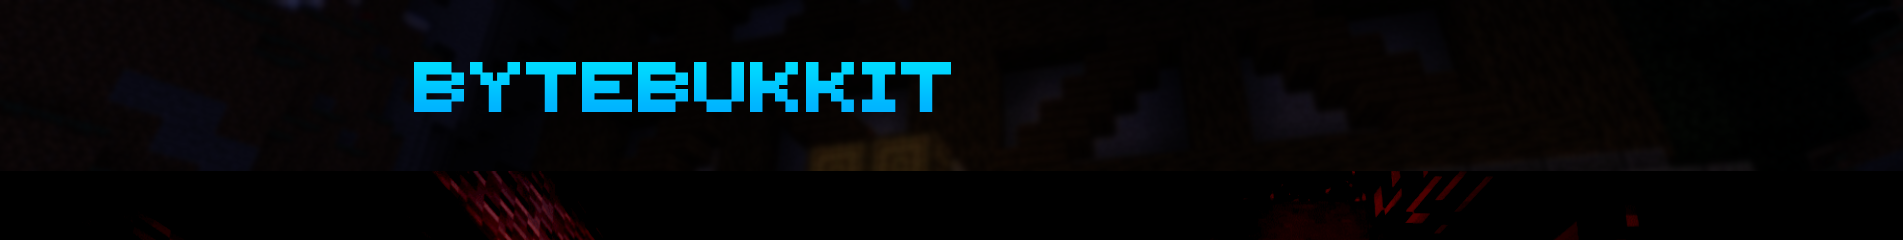
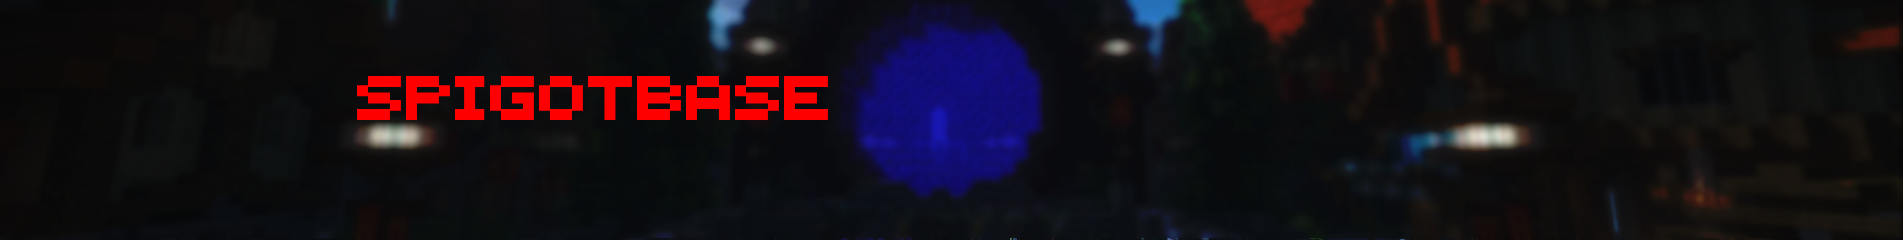
update to spigotbase

diff --git a/create.html b/create.html
@@ -2,8 +2,10 @@
 <html lang="en">
 <head>
   <meta charset="UTF-8">
-  <title>Create Addon</title>
+  <title>Create - SpigotBase</title>
   <link rel="stylesheet" href="/style.css">
+  <link rel="icon" href="/image/favicon.png" type="image/png">
+  <link rel="apple-touch-icon" sizes="180x180" href="/image/apple-touch-icon.png">
   <style>
     /* Character counter style */
     .char-counter {
@@ -32,31 +34,34 @@
   <div id="announcement" style="display:none;"></div>
 
   <!-- Header -->
-  <header class="banner">
+<header class="banner">
     <img src="/image/header.png" alt="Header Banner" class="header-img">
     <div class="overlay-bar">
       <div class="nav-left">
-        <h1 class="logo">Addon Browser</h1>
+        <h1 class="logo">SpigotBase</h1>
         <nav class="nav-links">
-          <a href="/index.html">Addons</a><span class="divider"></span>
-          <a href="#">Projects</a><span class="divider"></span>
-          <a href="#">Placeholder</a>
+          <a href="/index.html">HTSL Browser</a><span class="divider"></span>
+          <a href="/projects.html">Projects</a><span class="divider"></span>
+          <a href="#">About</a><span class="divider"></span>
+          <a href="/housing.html">Housing Browser</a><span class="divider"></span>
+          <a href="https://github.com/BusterBrown1218/HTSL" target="_blank">HTSL</a><span class="divider"></span>
+          <a href="https://housingeditor.com" target="_blank">Housing Editor</a>
         </nav>
       </div>
-      <div class="nav-right">
-        <div id="logged-out">
-          <a href="/login.html"><button id="signInBtnHeader">Sign In</button></a>
+        <div class="nav-right">
+            <div id="logged-out" style="display:flex; align-items:center;">
+                <a href="/login.html"><button id="signInBtnHeader">Sign In</button></a>
+            </div>
+            <div id="logged-in" style="display:none; align-items:center;">
+                <img id="avatarSmall" width="32" height="32" alt="Avatar" style="border-radius:6px; cursor:pointer; margin-left:8px;">
+                <span id="displayName" style="margin-left:8px; font-weight:bold; color:#fff; cursor:pointer;"></span>
+            </div>
         </div>
-        <div id="logged-in" style="display:none; align-items:center;">
-          <img id="avatarSmall" width="32" height="32" alt="Avatar" style="border-radius:6px; cursor:pointer;">
-          <span id="displayName" style="margin-left:8px; font-weight:bold; color:#fff; cursor:pointer;"></span>
-        </div>
-      </div>
     </div>
-  </header>
+</header>
 
   <main class="container">
-    <h3>Create a New Addon</h3>
+    <h3>Upload a new HTSL File</h3>
     <section id="upload-section">
       <div id="drop-area">
         <p>Drag & Drop your .htsl file here or</p>
@@ -66,7 +71,7 @@
       <div id="file-name" style="margin-bottom: 10px; color: #333;"></div>
 
       <label for="addonName">Project Name</label>
-      <input id="addonName" placeholder="Addon name" maxlength="30" required>
+      <input id="addonName" placeholder="Project name" maxlength="30" required>
       <span id="nameCounter" class="char-counter">0 / 30</span>
 
       <label for="addonDesc">Project Description</label>
@@ -84,8 +89,8 @@
 
   <footer>
     <div class="container">
-      <p>&copy; 2025 <b>ByteBukkit</b>. All Rights Reserved</p>
-      <p>&copy; ByteBukkit is in no way affiliated or endorsed by Hypixel.</p>
+      <p>&copy; 2025 <b>SpigotBase</b>. All Rights Reserved</p>
+      <p>&copy; SpigotBase is in no way affiliated or endorsed by Hypixel OR SpigotMC/Bukkit.</p>
     </div>
   </footer>
 

diff --git a/housing.html b/housing.html
@@ -3,7 +3,7 @@
 <html lang="en">
 <head>
     <meta charset="UTF-8">
-    <title>Housings - ByteBukkit</title>
+    <title>Housings - SpigotBase</title>
     <link rel="stylesheet" href="style.css">
       <link rel="icon" href="/image/favicon.png" type="image/png">
   <link rel="apple-touch-icon" sizes="180x180" href="/image/apple-touch-icon.png">
@@ -18,7 +18,7 @@
     <img src="/image/header.png" alt="Header Banner" class="header-img">
     <div class="overlay-bar">
       <div class="nav-left">
-        <h1 class="logo">ByteBukkit</h1>
+        <h1 class="logo">SpigotBase</h1>
         <nav class="nav-links">
           <a href="/index.html">HTSL Browser</a><span class="divider"></span>
           <a href="/projects.html">Projects</a><span class="divider"></span>
@@ -73,9 +73,9 @@
 </script>
   <footer>
     <div class="container">
-      <p>&copy; 2025 <b>ByteBukkit</b>. All Rights Reserved</p>
+      <p>&copy; 2025 <b>SpigotBase</b>. All Rights Reserved</p>
       <p>Housing Browser by luckycdev</p>
-      <p>&copy; ByteBukkit is in no way affiliated or endorsed by Hypixel.</p>
+      <p>&copy; SpigotBase is in no way affiliated or endorsed by Hypixel OR SpigotMC/Bukkit.</p>
     </div>
   </footer>
 </body>

diff --git a/index.html b/index.html
@@ -2,7 +2,7 @@
 <html lang="en">
 <head>
   <meta charset="UTF-8">
-  <title>ByteBukkit - HTSL Browser</title>
+  <title>SpigotBase - HTSL Browser</title>
   <link rel="stylesheet" href="/style.css">
   <link rel="icon" href="/image/favicon.png" type="image/png">
   <link rel="apple-touch-icon" sizes="180x180" href="/image/apple-touch-icon.png">
@@ -16,7 +16,7 @@
     <img src="/image/header.png" alt="Header Banner" class="header-img">
     <div class="overlay-bar">
       <div class="nav-left">
-        <h1 class="logo">ByteBukkit</h1>
+        <h1 class="logo">SpigotBase</h1>
         <nav class="nav-links">
           <a href="#">HTSL Browser</a><span class="divider"></span>
           <a href="/projects.html">Projects</a><span class="divider"></span>
@@ -49,8 +49,8 @@
 
   <footer>
     <div class="container">
-      <p>&copy; 2025 <b>ByteBukkit</b>. All Rights Reserved</p>
-      <p>&copy; ByteBukkit is in no way affiliated or endorsed by Hypixel.</p>
+      <p>&copy; 2025 <b>SpigotBase</b>. All Rights Reserved</p>
+      <p>&copy; SpigotBase is in no way affiliated or endorsed by Hypixel OR SpigotMC/Bukkit.</p>
     </div>
   </footer>
 <div id="modal-overlay">

diff --git a/house/index.html b/house/index.html
@@ -18,7 +18,7 @@
     <img src="/image/header.png" alt="Header Banner" class="header-img">
     <div class="overlay-bar">
         <div class="nav-left">
-            <h1 class="logo">ByteBukkit</h1>
+            <h1 class="logo">SpigotBase</h1>
             <nav class="nav-links">
                 <a href="/index.html">HTSL Browser</a><span class="divider"></span>
                 <a href="/projects.html">Projects</a><span class="divider"></span>
@@ -73,9 +73,9 @@
 <!-- Footer -->
 <footer>
     <div class="container">
-        <p>&copy; 2025 <b>ByteBukkit</b>. All Rights Reserved</p>
+        <p>&copy; 2025 <b>SpigotBase</b>. All Rights Reserved</p>
         <p>Housing Browser by luckycdev</p>
-        <p>&copy; ByteBukkit is in no way affiliated or endorsed by Hypixel.</p>
+        <p>&copy; SpigotBase is in no way affiliated or endorsed by Hypixel OR SpigotMC/Bukkit.</p>
     </div>
 </footer>
 

diff --git a/player/index.html b/player/index.html
@@ -18,7 +18,7 @@
     <img src="/image/header.png" alt="Header Banner" class="header-img">
     <div class="overlay-bar">
         <div class="nav-left">
-            <h1 class="logo">ByteBukkit</h1>
+            <h1 class="logo">SpigotBase</h1>
             <nav class="nav-links">
                 <a href="/index.html">HTSL Browser</a><span class="divider"></span>
                 <a href="/projects.html">Projects</a><span class="divider"></span>
@@ -75,7 +75,7 @@
     <div class="container">
         <p>&copy; 2025 <b>ByteBukkit</b>. All Rights Reserved</p>
         <p>Housing Browser by luckycdev</p>
-        <p>&copy; ByteBukkit is in no way affiliated or endorsed by Hypixel.</p>
+        <p>&copy; SpigotBase is in no way affiliated or endorsed by Hypixel OR SpigotMC/Bukkit.</p>
     </div>
 </footer>
 

diff --git a/projects.html b/projects.html
@@ -16,7 +16,7 @@
     <img src="/image/header.png" alt="Header Banner" class="header-img">
     <div class="overlay-bar">
       <div class="nav-left">
-        <h1 class="logo">ByteBukkit</h1>
+        <h1 class="logo">SpigotBase</h1>
         <nav class="nav-links">
           <a href="/index.html">HTSL Browser</a><span class="divider"></span>
           <a href="#">Projects</a><span class="divider"></span>
@@ -47,8 +47,8 @@
 
   <footer>
     <div class="container">
-      <p>&copy; 2025 <b>ByteBukkit</b>. All Rights Reserved</p>
-      <p>&copy; ByteBukkit is in no way affiliated or endorsed by Hypixel.</p>
+      <p>&copy; 2025 <b>SpigotBase</b>. All Rights Reserved</p>
+      <p>&copy; SpigotBase is in no way affiliated or endorsed by Hypixel OR SpigotMC/Bukkit.</p>
     </div>
   </footer>
 </body>

diff --git a/profile.html b/profile.html
@@ -202,7 +202,7 @@
   <img src="/image/header.png" alt="Header Banner" class="header-img">
   <div class="overlay-bar">
     <div class="nav-left">
-      <h1 class="logo">ByteBukkit</h1>
+      <h1 class="logo">SpigotBase</h1>
       <nav class="nav-links">
         <a href="/index.html">HTSL Browser</a><span class="divider"></span>
         <a href="/projects.html">Projects</a><span class="divider"></span>
@@ -281,8 +281,8 @@
 
 <footer>
   <div class="container">
-    <p>&copy; 2025 Addon Browser — Inspired by dev.bukkit.org</p>
-    <p>&copy; ByteBukkit is in no way affiliated or endorsed by Hypixel.</p>
+    <p>&copy; 2025 <b>SpigotBase</b>. All Rights Reserved</p>
+    <p>&copy; SpigotBase is in no way affiliated or endorsed by Hypixel OR SpigotMC/Bukkit.</p>
   </div>
 </footer>
 

diff --git a/login.html b/login.html
@@ -95,11 +95,12 @@ main {
     <img src="/image/header.png" alt="Header Banner" class="header-img">
     <div class="overlay-bar">
       <div class="nav-left">
-        <h1 class="logo">ByteBukkit</h1>
+        <h1 class="logo">SpigotBase</h1>
         <nav class="nav-links">
           <a href="/index.html">HTSL Browser</a><span class="divider"></span>
           <a href="/projects.html">Projects</a><span class="divider"></span>
           <a href="#">About</a><span class="divider"></span>
+          <a href="/housing.html">Housing Browser</a><span class="divider"></span>
           <a href="https://github.com/BusterBrown1218/HTSL" target="_blank">HTSL</a><span class="divider"></span>
           <a href="https://housingeditor.com" target="_blank">Housing Editor</a>
         </nav>

diff --git a/register.html b/register.html
@@ -108,11 +108,12 @@
     <img src="/image/header.png" alt="Header Banner" class="header-img">
     <div class="overlay-bar">
       <div class="nav-left">
-        <h1 class="logo">ByteBukkit</h1>
+        <h1 class="logo">SpigotBase</h1>
         <nav class="nav-links">
           <a href="/index.html">HTSL Browser</a><span class="divider"></span>
           <a href="/projects.html">Projects</a><span class="divider"></span>
           <a href="#">About</a><span class="divider"></span>
+          <a href="/housing.html">Housing Browser</a><span class="divider"></span>
           <a href="https://github.com/BusterBrown1218/HTSL" target="_blank">HTSL</a><span class="divider"></span>
           <a href="https://housingeditor.com" target="_blank">Housing Editor</a>
         </nav>
